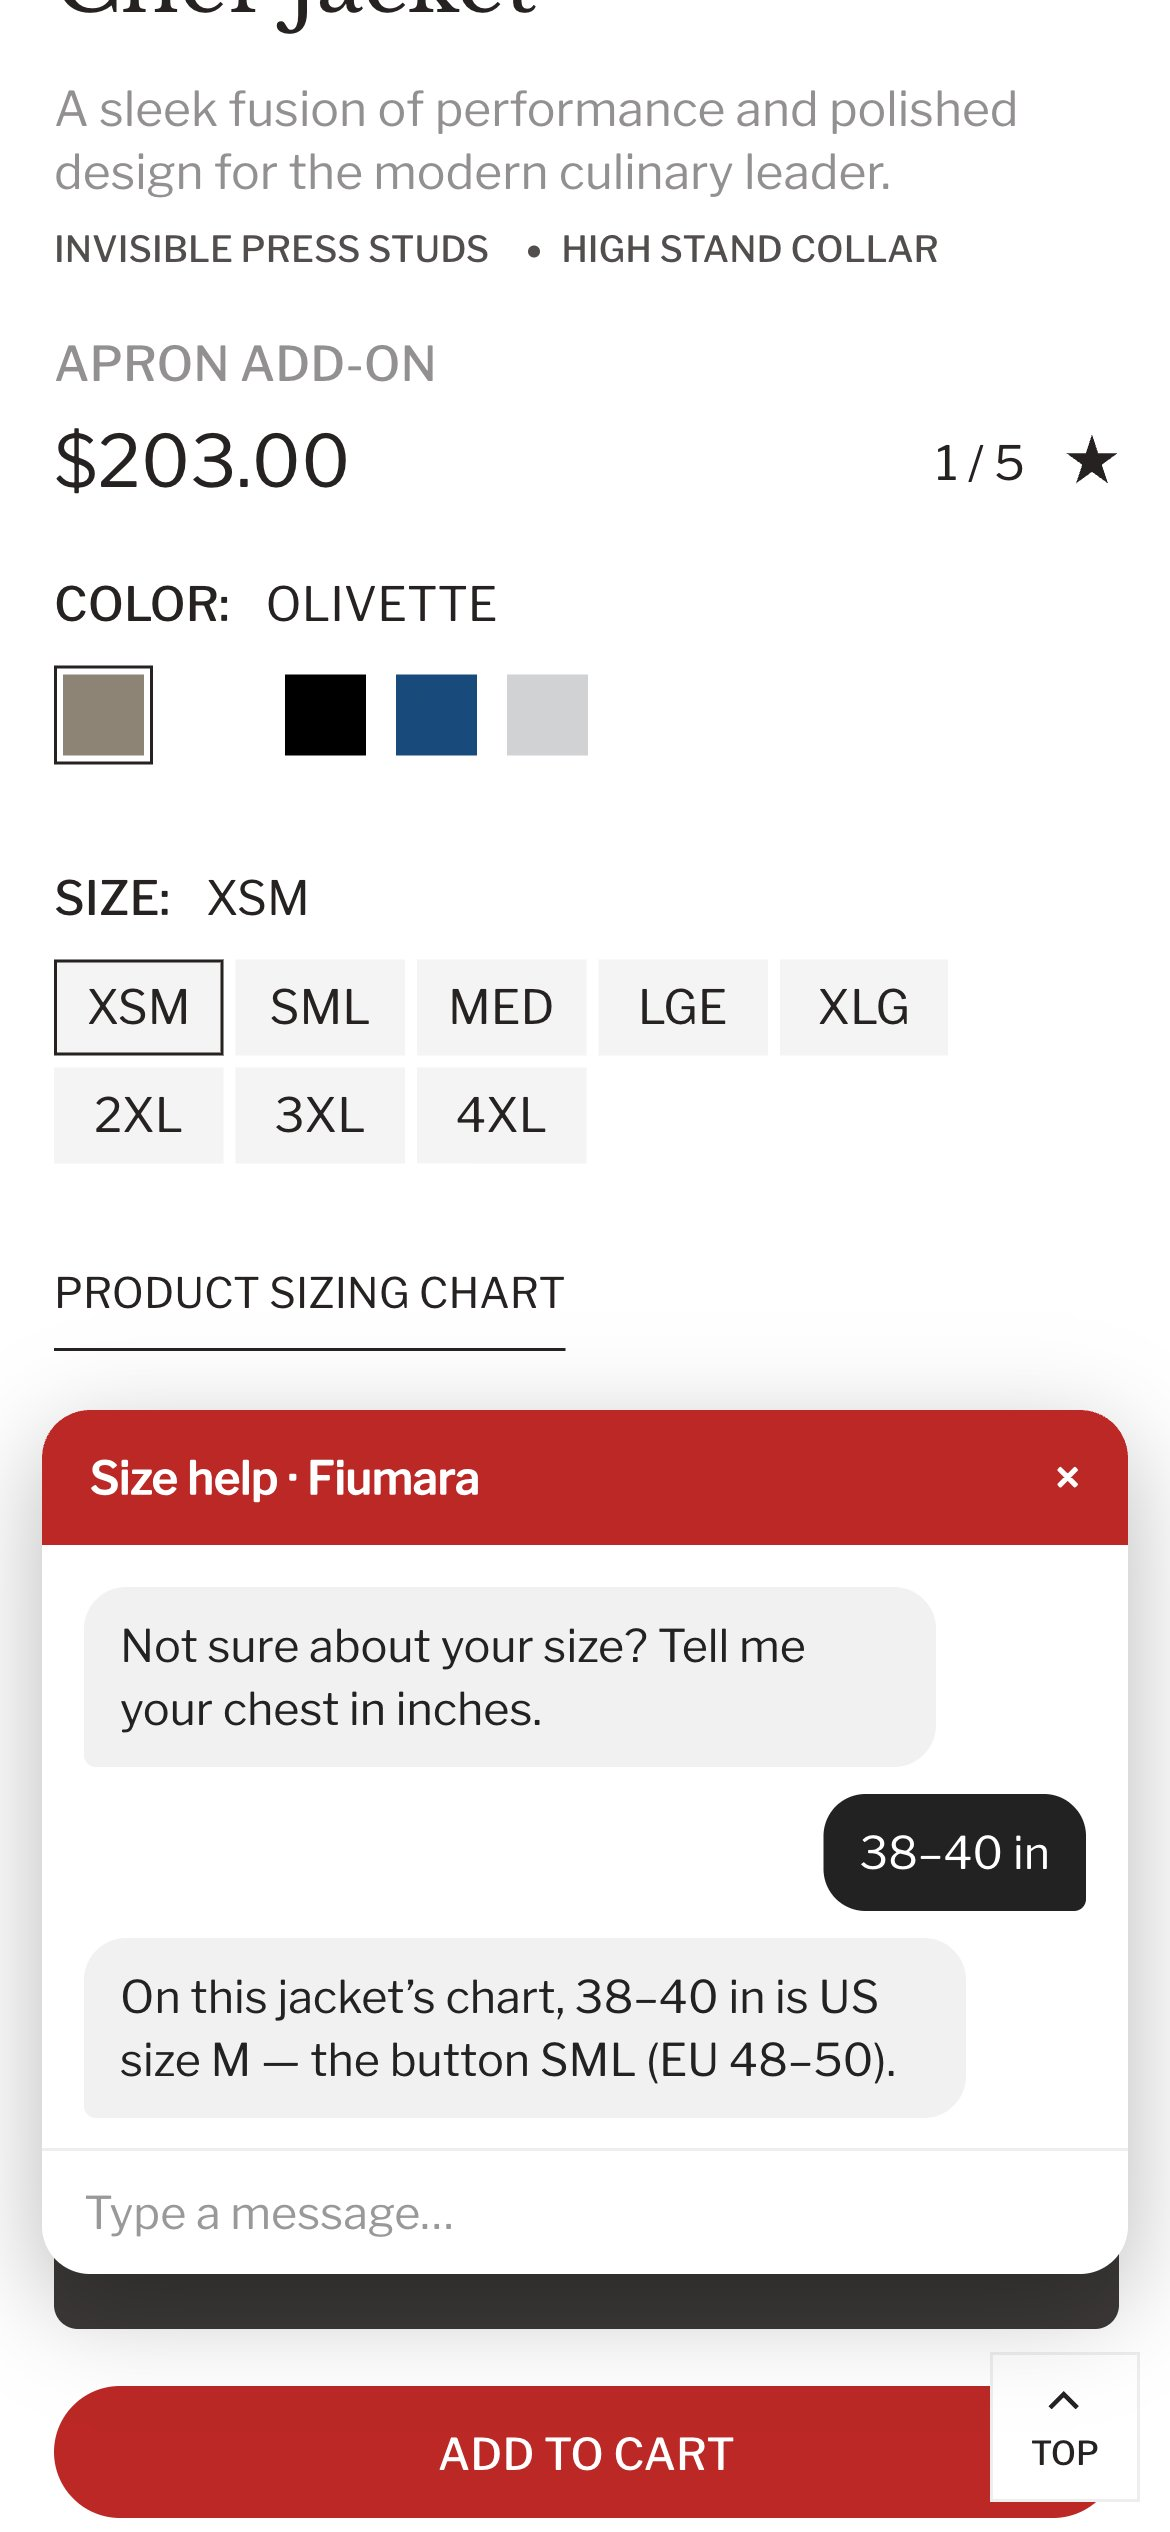
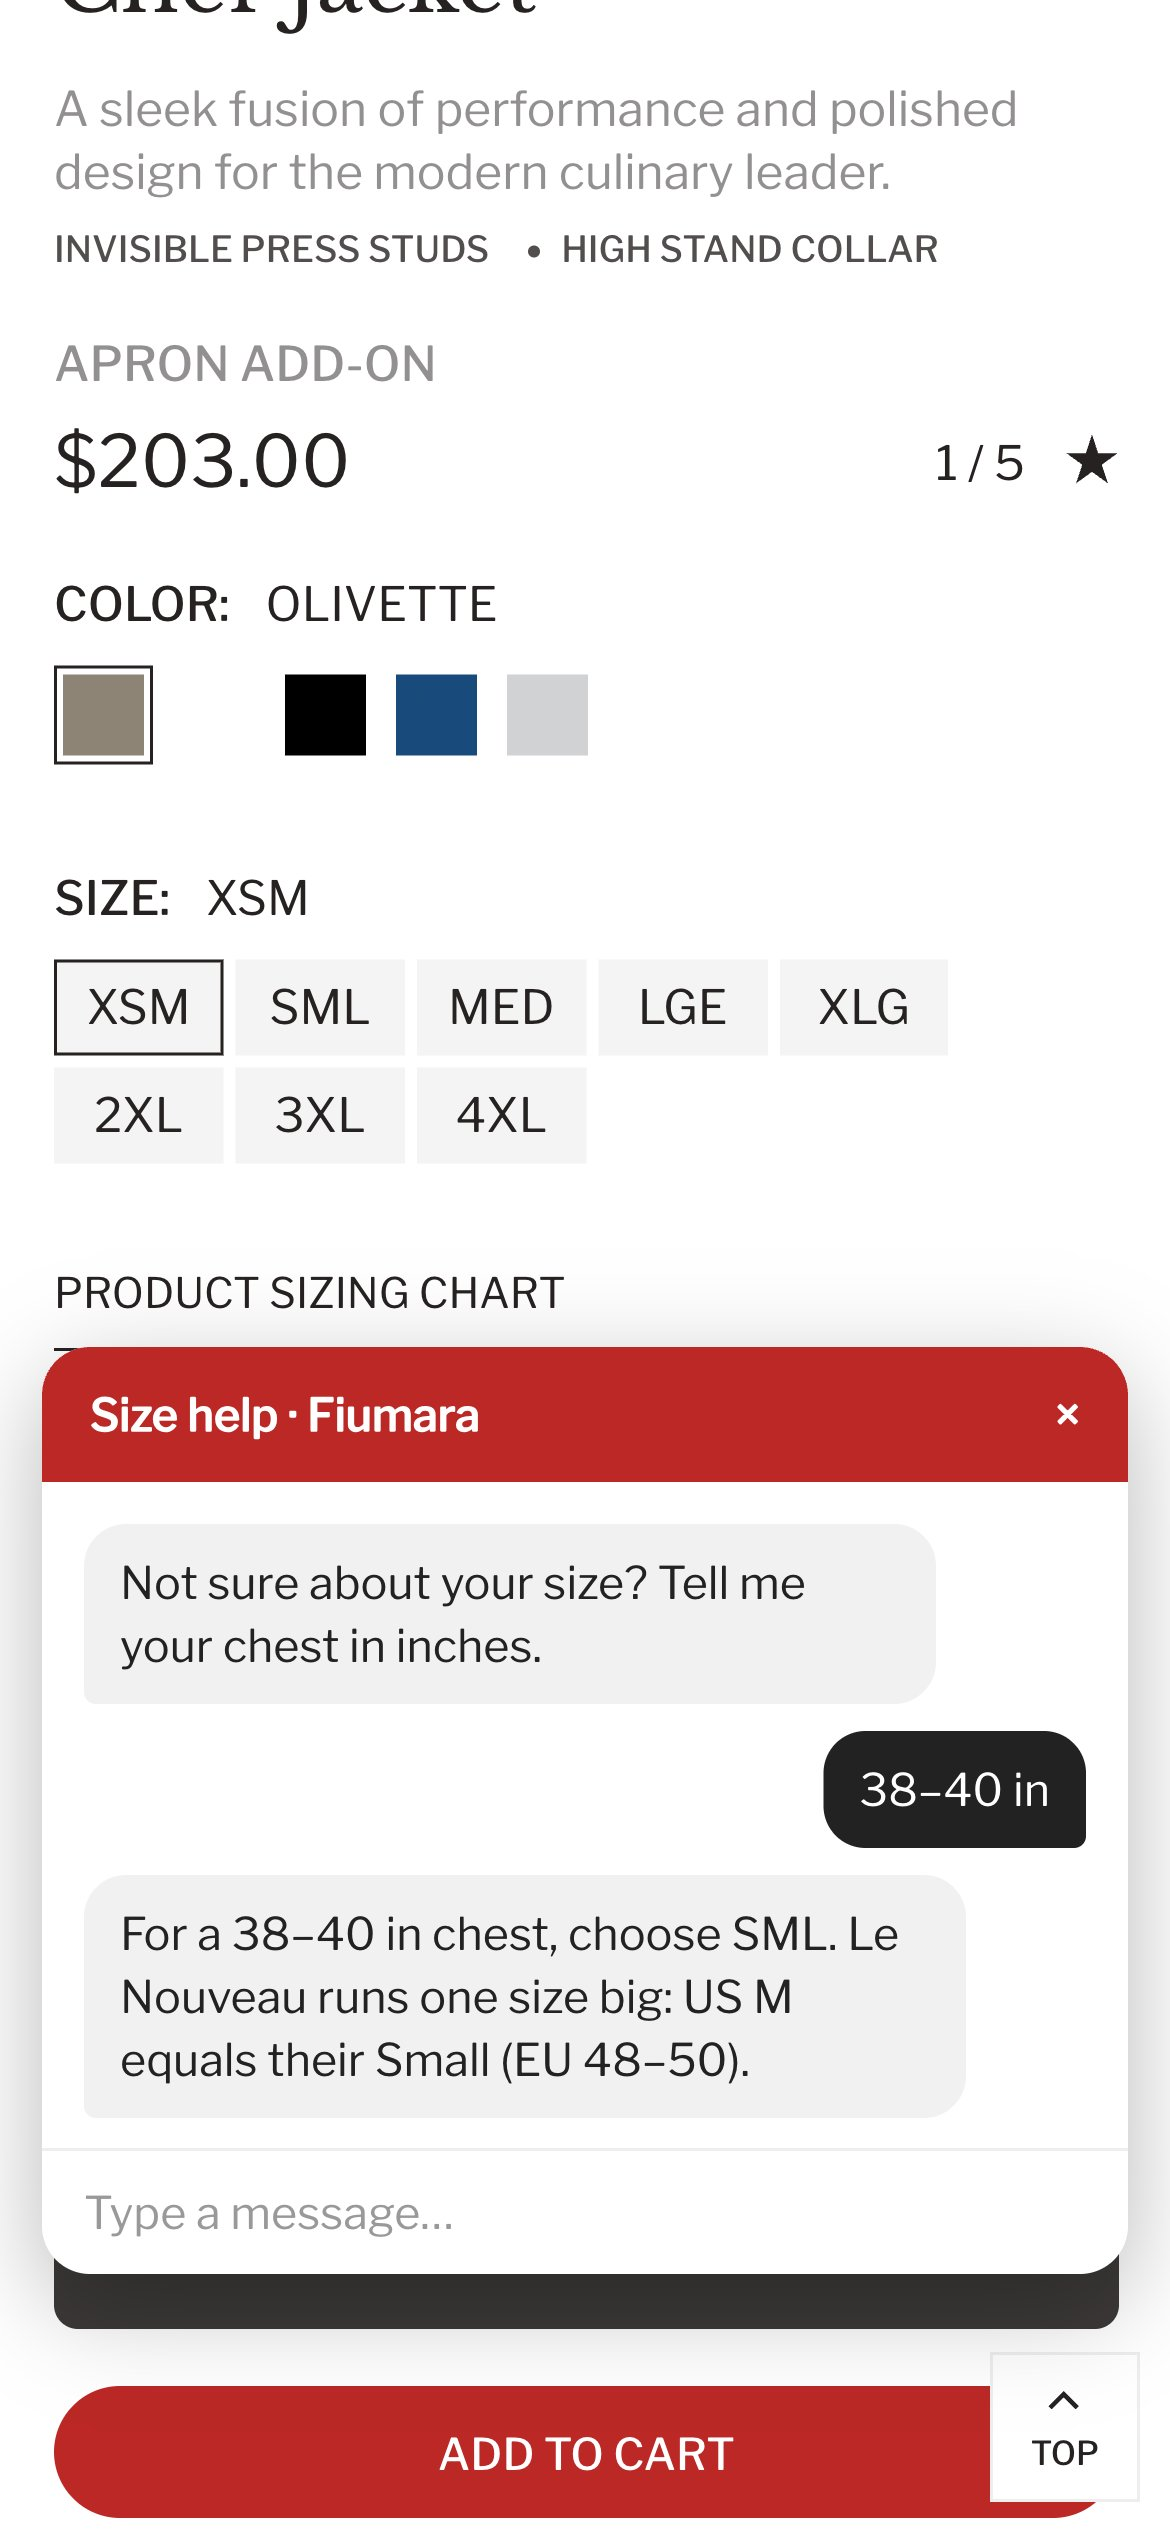
Size chat answer matches the chart

Changed region(s): [[0.0308, 0.5304, 0.9846, 0.6864], [0.0923, 0.6864, 0.9538, 0.8424]]

diff --git a/index.html b/index.html
@@ -1297,7 +1297,7 @@ a.irow:hover b{text-decoration:underline}
 <section class="slide" id="p-sizechat"> <img class="silk sm" src="img/silk.png" alt="">
 <div class="shead"><span class="num notranslate" translate="no"><span class="notranslate" translate="no">10</span></span><h2><span class="sev extra">Separately</span>Size help chat for <span class="notranslate" translate="no">Fiumara Culinary</span></h2></div>
 <div class="pbody">
-<div class="txt t1"><div class="lbl"><span class="pill">Today</span><svg class="conn" viewBox="0 0 54 12"><path d="M0 6h50M45 1.5 50 6l-5 4.5" fill="none" stroke="#6d6d6d" stroke-width="1.5"/></svg></div><p>You sell <span class="notranslate" translate="no">13</span> brands, and each sizes differently. On the Alain jacket the buttons say XSM, SML, MED, while the chart says S, M, L. For sizing questions the chart sends shoppers to call <span class="notranslate" translate="no">1</span>-<span class="notranslate" translate="no">855</span>-<span class="notranslate" translate="no">348</span>-<span class="notranslate" translate="no">6272</span>, on weekdays only.</p><p class="fine-note">Checked live on the U.S. store, iPhone (<span class="notranslate" translate="no">390</span>×<span class="notranslate" translate="no">844</span>), <span class="notranslate" translate="no">9</span> Oct <span class="notranslate" translate="no">2026</span>. · <a href="https://fiumaraculinary.com/products/le-nouveau-chef-alain-chef-jacket" target="_blank" rel="noopener">open the page ↗</a></p></div>
+<div class="txt t1"><div class="lbl"><span class="pill">Today</span><svg class="conn" viewBox="0 0 54 12"><path d="M0 6h50M45 1.5 50 6l-5 4.5" fill="none" stroke="#6d6d6d" stroke-width="1.5"/></svg></div><p>You sell <span class="notranslate" translate="no">13</span> brands, and each sizes differently. On the Alain jacket the chart says a US M (<span class="notranslate" translate="no">38</span>–<span class="notranslate" translate="no">40</span> in chest) is <span class="notranslate" translate="no">Le Nouveau</span> size S — the button SML. A shopper who taps MED gets one size too big. For sizing questions the chart sends shoppers to call <span class="notranslate" translate="no">1</span>-<span class="notranslate" translate="no">855</span>-<span class="notranslate" translate="no">348</span>-<span class="notranslate" translate="no">6272</span>, on weekdays only.</p><p class="fine-note">Checked live on the U.S. store, iPhone (<span class="notranslate" translate="no">390</span>×<span class="notranslate" translate="no">844</span>), <span class="notranslate" translate="no">9</span> Oct <span class="notranslate" translate="no">2026</span>. · <a href="https://fiumaraculinary.com/products/le-nouveau-chef-alain-chef-jacket" target="_blank" rel="noopener">open the page ↗</a></p></div>
 <div class="v1"><div><div class="phone"><div class="screen"><div class="island"></div><div class="sbar"><span><span class="notranslate" translate="no">9</span>:<span class="notranslate" translate="no">41</span></span><svg viewBox="0 0 24 11"><rect x=".5" y=".5" width="20" height="10" rx="3" fill="none" stroke="#111"/><rect x="2" y="2" width="16" height="7" rx="1.5" fill="#111"/><rect x="21.5" y="3.5" width="1.8" height="4" rx=".9" fill="#111"/></svg></div><div class="view"><img class="shot" src="img/now-sizechat.jpg" alt=""></div><div class="url notranslate" translate="no"><span><span class="notranslate" translate="no">fiumaraculinary.com</span></span></div></div></div><div class="cap">Today — buttons and chart use different names</div></div></div>
 <div class="txt t2"><div class="lbl"><span class="pill">We propose</span><svg class="conn" viewBox="0 0 54 12"><path d="M0 6h50M45 1.5 50 6l-5 4.5" fill="none" stroke="#6d6d6d" stroke-width="1.5"/></svg></div><p>We set up a size help chat on product pages. It asks for the shopper’s measurements and answers from that product’s own size chart, at any hour. Questions it can’t answer go to your team by email.</p><p>On the right: the same page with the size chat open.</p></div>
 <div class="v2"><div><div class="phone"><div class="screen"><div class="island"></div><div class="sbar"><span><span class="notranslate" translate="no">9</span>:<span class="notranslate" translate="no">41</span></span><svg viewBox="0 0 24 11"><rect x=".5" y=".5" width="20" height="10" rx="3" fill="none" stroke="#111"/><rect x="2" y="2" width="16" height="7" rx="1.5" fill="#111"/><rect x="21.5" y="3.5" width="1.8" height="4" rx=".9" fill="#111"/></svg></div><div class="view"><img class="shot" src="img/fix-sizechat.jpg" alt=""></div><div class="url notranslate" translate="no"><span><span class="notranslate" translate="no">fiumaraculinary.com</span></span></div></div></div><div class="cap">The same page with size help</div></div></div>
